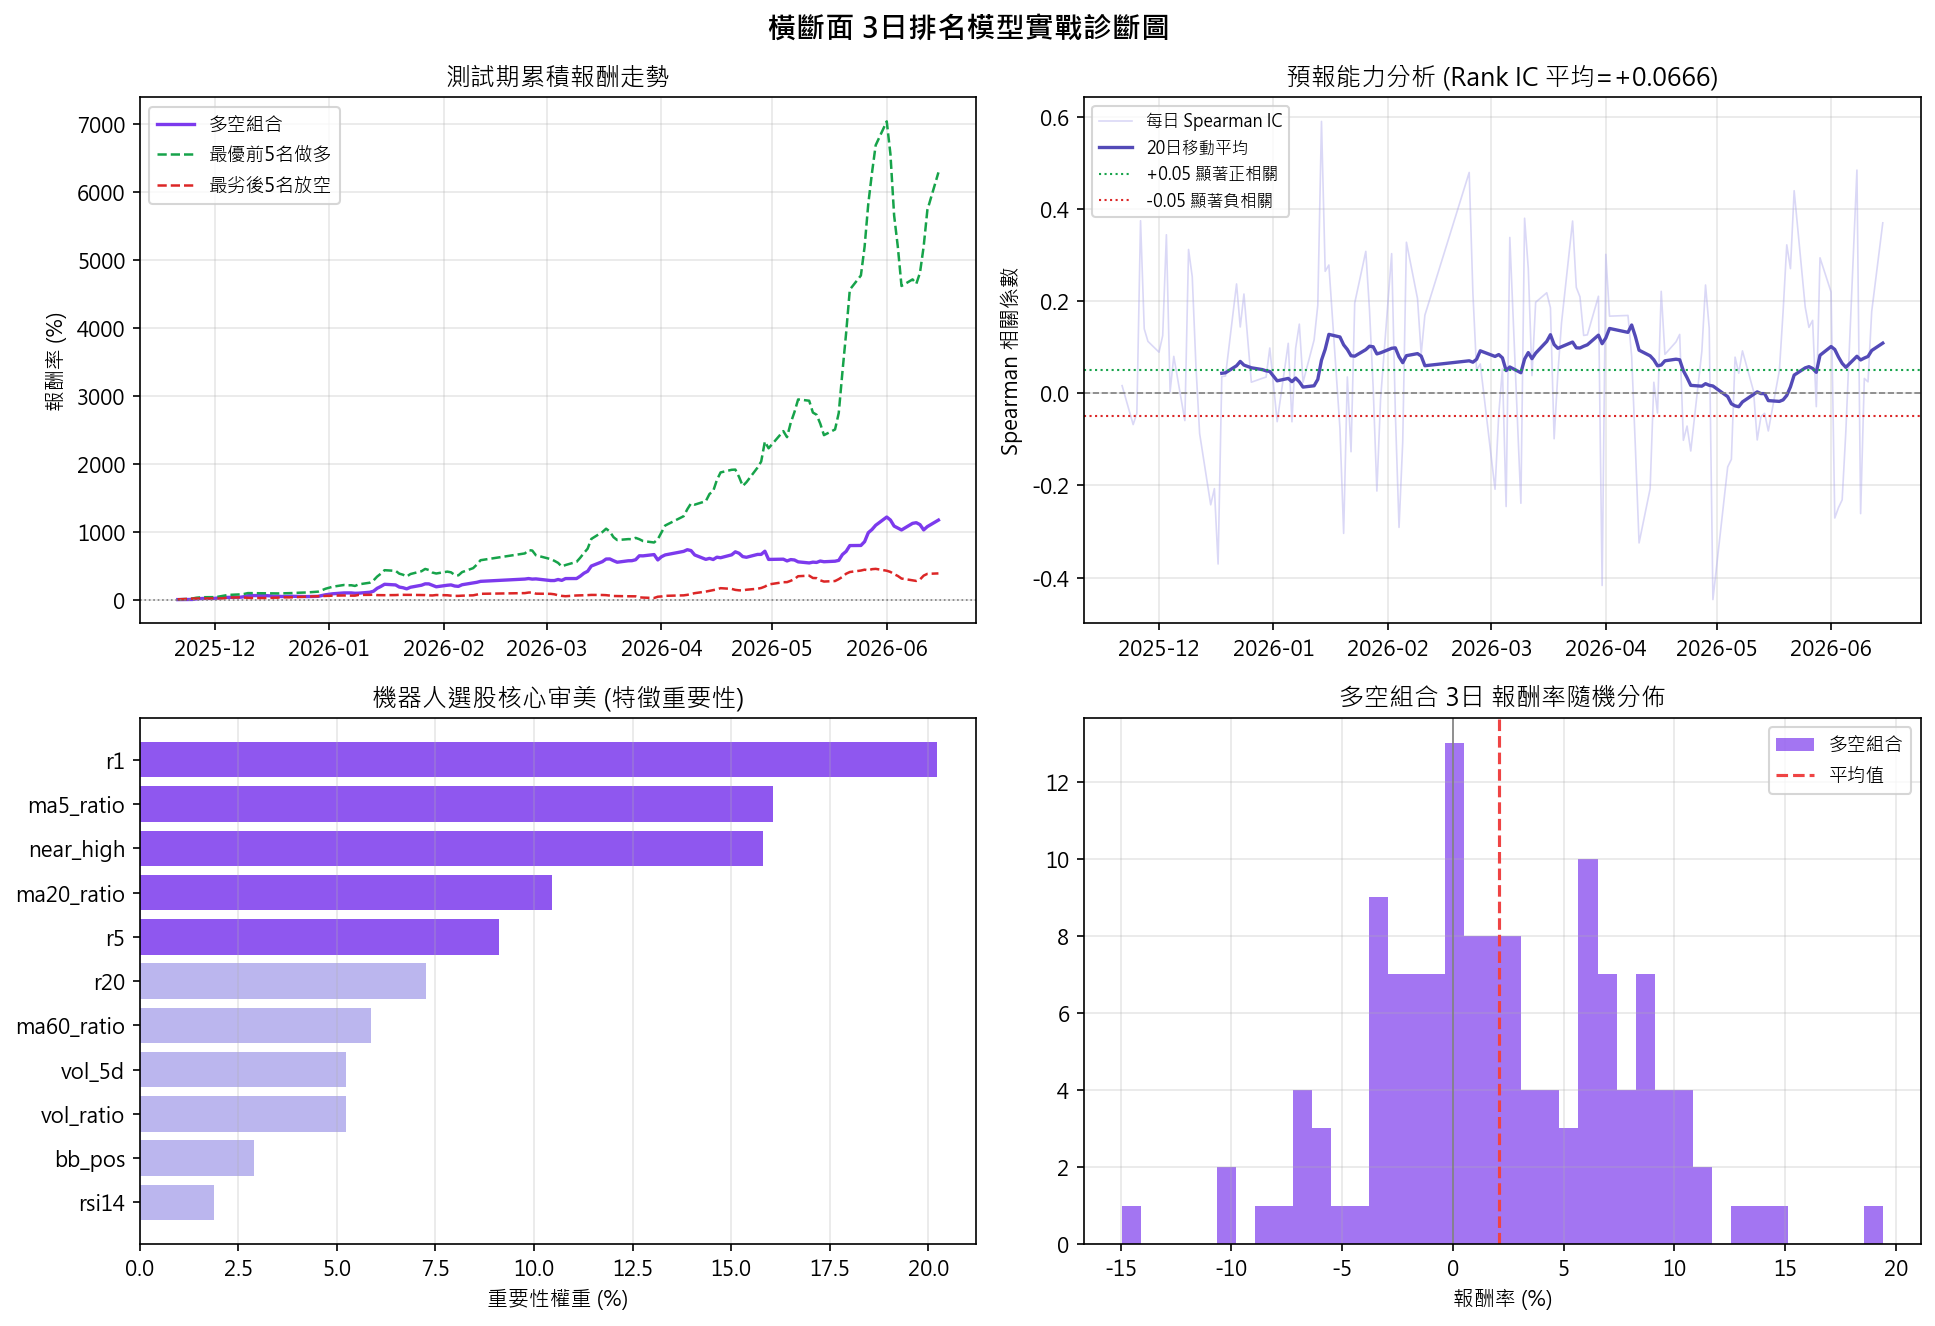
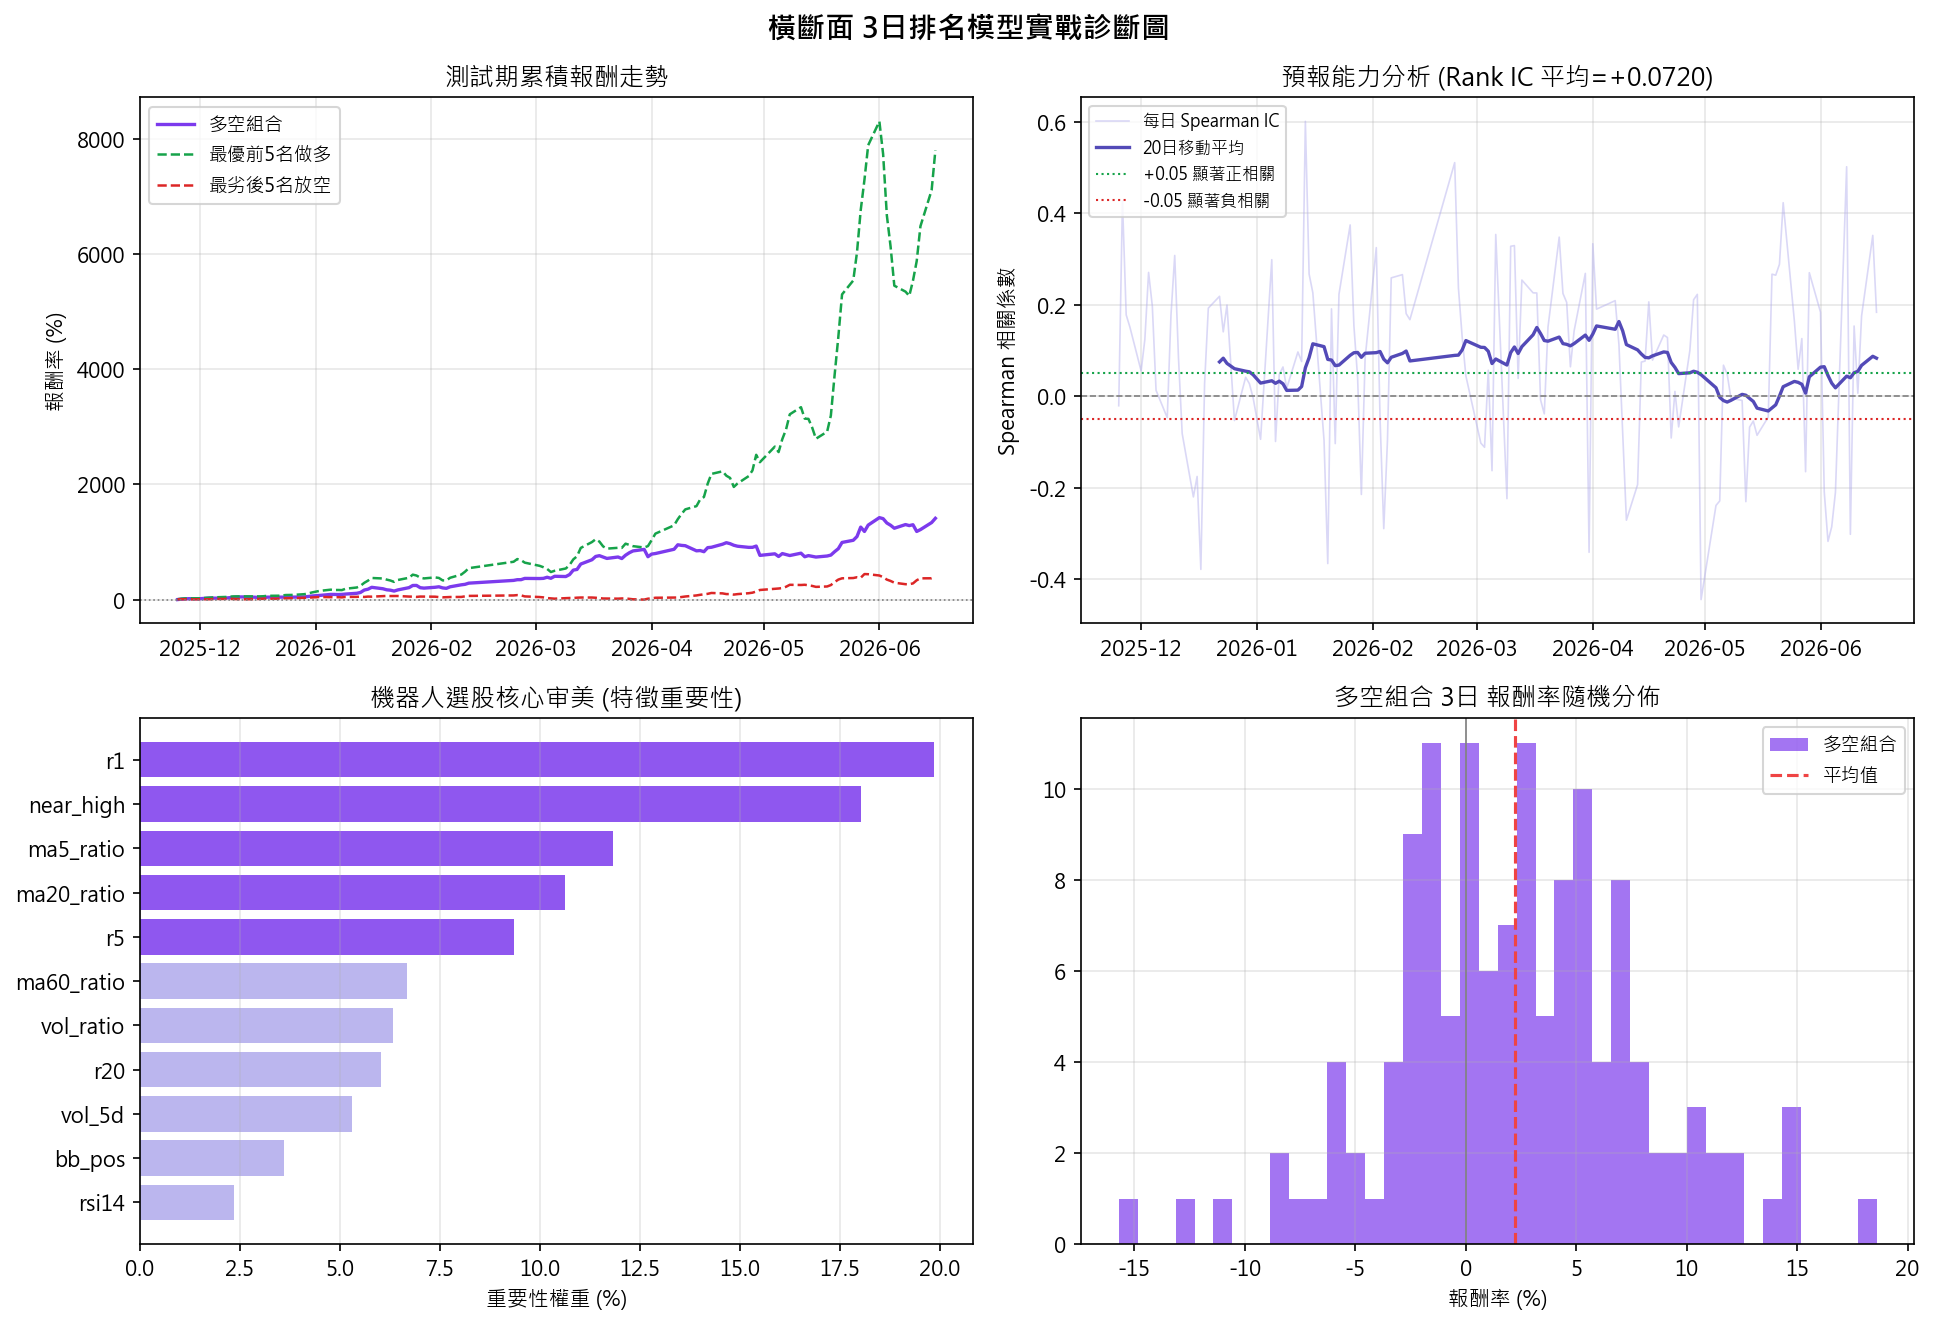
fix: yfinance MultiIndex 欄位格式修正，更新 .gitignore

diff --git a/daily_run.py b/daily_run.py
@@ -1,5 +1,6 @@
 # daily_run.py — 每日自動執行腳本
 
+
 import os
 import sys
 import yfinance as yf
@@ -59,8 +60,8 @@ def main():
     try:
         raw     = yf.download(list(ALL_STOCKS.keys()),
                                period="1y", progress=False, auto_adjust=True)
-        prices  = raw["Close"].rename(columns=ALL_STOCKS).ffill().dropna(axis=1, thresh=50)
-        volumes = raw["Volume"].rename(columns=ALL_STOCKS).ffill()
+        prices  = raw.xs("Close",  axis=1, level=0).rename(columns=ALL_STOCKS).ffill().dropna(axis=1, thresh=50)
+        volumes = raw.xs("Volume", axis=1, level=0).rename(columns=ALL_STOCKS).ffill()
         prices, volumes = prices.align(volumes[prices.columns], join="inner")
         names = list(prices.columns)
         log(f"下載完成：{len(names)} 檔，{len(prices)} 個交易日")
@@ -106,8 +107,9 @@ def main():
 
     # ── 5. 大盤過濾檢查 ───────────────────────
     try:
-        twii     = yf.download("^TWII", period="3mo",
-                                progress=False, auto_adjust=True)["Close"]
+        twii_raw = yf.download("^TWII", period="3mo",
+                    progress=False, auto_adjust=True)
+        twii = twii_raw.xs("Close", axis=1, level=0).squeeze()
         twii_ma  = twii.rolling(20).mean()
         mkt_ok   = float(twii.iloc[-1]) > float(twii_ma.iloc[-1])
         mkt_val  = float(twii.iloc[-1])
@@ -122,7 +124,8 @@ def main():
     # ── 6. 今日各股漲跌 ───────────────────────
     try:
         raw2 = yf.download(list(ALL_STOCKS.keys()),
-                            period="2d", progress=False, auto_adjust=True)["Close"]
+                    period="2d", progress=False, auto_adjust=True)
+        raw2 = raw2.xs("Close", axis=1, level=0)
         raw2.columns = [ALL_STOCKS.get(c, c) for c in raw2.columns]
         raw2 = raw2.dropna(axis=1)
         if len(raw2) >= 2:
